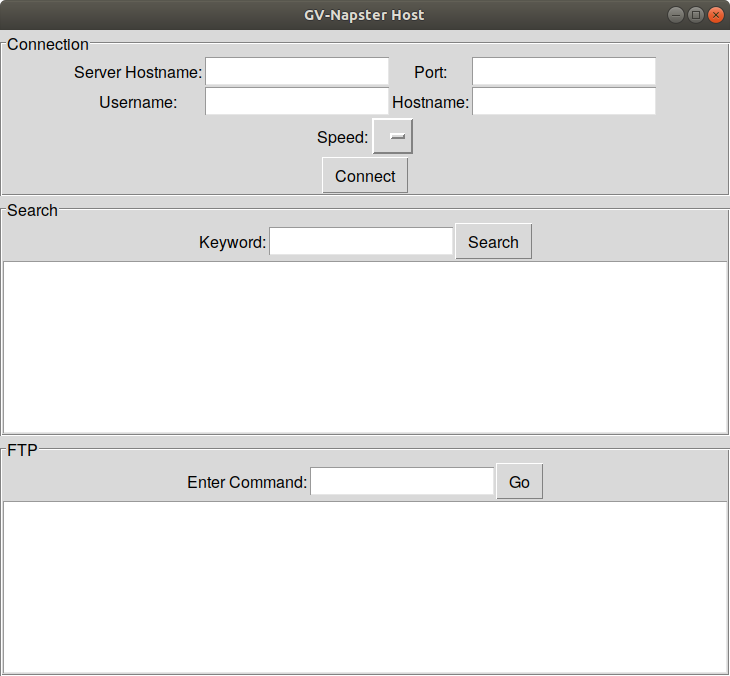
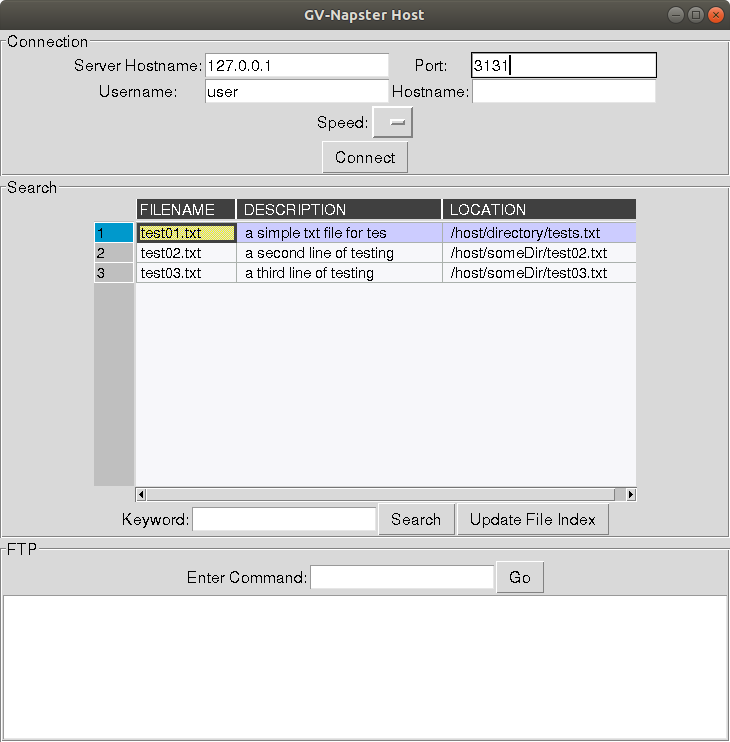
Update file sourcing and table code. Make things look cooler. Update UI image.

Changed region(s): [[0.0, 0.0, 1.0, 0.8077]]

diff --git a/Host/hostGUI.py b/Host/hostGUI.py
@@ -1,0 +1,187 @@
+import sys
+import os
+from tkinter import *
+from tkinter import messagebox
+import tkinter.font as tkFont
+from tkintertable import TableCanvas, TableModel
+import subprocess
+import runpy
+from threading import Thread
+sys.path.append('..')
+import hostFTPServer
+from HostClient import *
+
+
+# REQUIRE PYTHON 3
+def requireVersion():
+    if (sys.version_info[0] != 3):
+        print("This script requires Python version 3.x")
+        sys.exit(1)
+
+def runServer():
+    requireVersion()
+    '''
+    a few different methods to run the subprocess. not worth running it separately,
+    hence the basic function call.
+    '''
+    #runpy.run_module(mod_name = 'server') # this doesn't listen properly, and doesn't offer logging. below works for gnome terms
+    #os.system("gnome-terminal -x python server.py")
+    #subprocess.run(["python", "server.py"], )
+    hostFTPServer.main()
+
+
+class hostGUI:
+    def __init__(self):
+
+        '''
+        The host's FTP client instance
+        '''
+        self.client = HostClient()
+
+        '''
+        Assemble the GUI
+        '''
+
+        self.top = Tk()
+        self.top.title("GV-Napster Host")
+        #self.top.geometry("700x1200")
+
+        self.fontStyle = tkFont.Font(root=self.top, family="Helvetica", size=20)
+
+        self.font = tkFont.Font(family="Helvetica",size=12)
+
+        self.top.option_add("*Font", self.font)
+
+
+
+        self.connectionLabelFrame = LabelFrame(self.top, text = "Connection")
+        self.connectionLabelFrame.pack(fill="both", expand="yes")
+        self.searchLabelFrame = LabelFrame(self.top, text = "Search")
+        self.searchLabelFrame.pack(fill="both", expand="yes")
+        self.FTPLabelFrame = LabelFrame(self.top, text = "FTP")
+        self.FTPLabelFrame.pack(fill="both", expand="yes")
+
+        self.connectionInputs = Frame(self.connectionLabelFrame)
+
+
+        self.serverHostnameLabel = Label(self.connectionInputs, text="Server Hostname:")
+        self.serverHostnameLabel.grid(row=0, column=0)
+        self.serverHostnameText = Entry(self.connectionInputs)
+        self.serverHostnameText.grid(row=0, column=1)
+
+        self.usernameLabel = Label(self.connectionInputs, text="Username:")
+        self.usernameLabel.grid(row=1, column=0)
+        self.userNameText = Entry(self.connectionInputs)
+        self.userNameText.grid(row=1, column=1)
+
+        self.portLabel = Label(self.connectionInputs, text="Port:")
+        self.portLabel.grid(row=0, column=3)
+        self.portText = Entry(self.connectionInputs)
+        self.portText.grid(row=0, column=4)
+
+        self.hostnameLabel = Label(self.connectionInputs, text="Hostname:")
+        self.hostnameLabel.grid(row=1, column=3)
+        self.hostnameText = Entry(self.connectionInputs)
+        self.hostnameText.grid(row=1, column=4)
+
+        self.speedFrame = Frame(self.connectionLabelFrame)
+        self.speedLabel = Label(self.speedFrame, text="Speed:")
+        self.speedSelection = StringVar(self.top)
+        self.speedChoices = { 'Ethernet'}
+        self.speedMenu = OptionMenu(self.speedFrame, self.speedSelection, *self.speedChoices)
+
+        self.connectButton = Button(self.connectionLabelFrame, text="Connect", command=self.connect)
+
+        self.searchKeywordFrame = Frame(self.searchLabelFrame)
+        self.keywordLabel = Label(self.searchKeywordFrame, text="Keyword:")
+        self.keywordLabel.grid(row=0, column=0)
+        self.keywordText = Entry(self.searchKeywordFrame)
+        self.keywordText.grid(row=0, column=1)
+        self.searchButton = Button(self.searchKeywordFrame, text="Search", command=self.search)
+        self.searchButton.grid(row=0, column=2)
+        self.updateFileIndexButton = Button(self.searchKeywordFrame, text="Update File Index", command=self.updateFileIndex)
+        self.updateFileIndexButton.grid(row=0, column=3)
+
+
+        # working on a table, just a placeholder
+        self.searchFrame = Frame(self.searchLabelFrame)
+        self.searchTable = TableCanvas(self.searchFrame)
+        self.searchTable.importCSV("files.csv")
+        #self.searchTable = Text(self.searchLabelFrame, height=7)
+
+        self.enterCommandFrame = Frame(self.FTPLabelFrame)
+        self.enterCommandLabel = Label(self.enterCommandFrame, text="Enter Command:")
+        self.enterCommandLabel.grid(row=0, column=0)
+        self.enterCommandText = Entry(self.enterCommandFrame)
+        self.enterCommandText.grid(row=0, column=1)
+        self.enterCommandButton = Button(self.enterCommandFrame, text="Go", command=self.runFTPCommand)
+        self.enterCommandButton.grid(row=0, column=2)
+
+        # needs format specifics but will work
+        self.commandTextOutput = Text(self.FTPLabelFrame, height=7)
+
+        '''
+        pack all frames in proper order (top to bottom)
+        '''
+        self.connectionInputs.pack()
+        self.speedLabel.pack(side=LEFT)
+        self.speedMenu.pack(side=RIGHT)
+        self.speedFrame.pack()
+        self.connectButton.pack(side=BOTTOM)
+        self.searchFrame.pack()
+        self.searchTable.show()
+        self.searchKeywordFrame.pack()
+        #self.searchTable.pack()
+        self.enterCommandFrame.pack()
+        self.commandTextOutput.pack()
+
+    def connect(self):
+        serverHostname = self.serverHostnameText.get()
+        port = self.portText.get()
+        username = self.userNameText.get()
+        hostname = self.hostnameText.get()
+        #speed = self.speedMenu.get()
+        print("Connecting to " + serverHostname + ":" + port + " as " + username + " from " + hostname + " at speed <later>...")
+        connectionResult = self.client.connect(serverHostname, port, username)
+        if (connectionResult == 1):
+            messagebox.showerror(title="Server Connection", message="Connection Refused")
+            return
+        if (connectionResult == 2):
+            messagebox.showerror(title="Server Authentication", message="Authentication Failed")
+        else:
+            print("Connected...")
+
+    def search(self):
+        print("SEARCH FUNCTION CODE STANDIN")
+
+    def runFTPCommand(self):
+        print("Run FTP Command stand-in")
+
+    def updateFileIndex(self):
+        print("Updating file index...")
+        self.client.fetchFileIndex()
+        self.searchTable.importCSV("files.csv")
+        self.searchTable.redraw()
+        print("File index updated...")
+
+
+
+
+def main():
+    gui = hostGUI()
+    gui.top.mainloop()
+
+if __name__ == '__main__':
+    try:
+        '''
+        Start an FTP server on this machine
+        '''
+        # ONLY COMMENTED OUT BECAUSE RUNNING THIS ON THE SAME MACHINE AS THE CENTRAL SERVER IS ASS
+        Thread(target = runServer).start()
+
+        '''
+        Start the host GUI (and therefore client) on this machine
+        '''
+        Thread(target = main).start()
+    except:
+        exit(0)

diff --git a/Host/hostFTPServer.py b/Host/hostFTPServer.py
@@ -1,0 +1,129 @@
+from pyftpdlib.authorizers import DummyAuthorizer
+from pyftpdlib.handlers import FTPHandler
+from pyftpdlib.servers import FTPServer
+from threading import Thread
+import csv
+import sys
+
+# REQUIRE PYTHON 3
+def requireVersion():
+    if (sys.version_info[0] != 3):
+        print("This script requires Python version 3.x")
+        sys.exit(1)
+
+
+'''
+HOSTS ACCESS EACH OTHER, BUT ONLY FOR DOWNLOADS, THIS SERVER IS ONLY THE MIDDLEMAN FOR P2P FILESHARING. IE, THIS SERVER ONLY MAINTAINS A DB OF FILENAMES AND DESCRIPTIONS, BUT
+DOES NOT DO ANY MORE THAN TELL THE HOST WHAT FILES ARE AND WHERE TO FIND THEM (ON WHICH HOST)
+'''
+
+# The port the FTP server will listen on.
+# This must be greater than 1023 unless you run this script as root.
+FTP_PORT = 2121
+
+'''
+NOT WORRIED ABOUT AUTHENTICATING THIS SERVER, DOESN'T SEEM MAJOR IN THE SCOPE OF THE PROJECT.
+IT'S JUST A CENTRAL "WHO HAS WHAT" SO. 
+'''
+
+# The name of the FTP user that can log in.
+FTP_USER = ""
+
+# The FTP user's password.
+FTP_PASSWORD = ""
+
+# The directory the FTP user will have full read/write access to.
+# This directory holds the file that operates as the filename directory/database, ie
+# what files are, and where they are. 
+FTP_DIRECTORY = "."
+
+
+'''
+CONNECTION DATA:
+WE CAN KEEP A PRE-BUILT LIST OF FILES/DESCRIPTIONS, BUT THAT REQUIRES LOGGING IN THE
+IMPORTED DATASET WHICH HOSTS ARE LOGGED IN/CAN BE DOWNLOADED FROM
+'''
+
+'''
+TO DO: FILE CONTAINING FILENAMES AND DESCRIPTIONS
+'''
+
+# Load the .csv file containing file names and descriptions
+files = {}
+i = 0
+with open('files.csv') as csvfile:
+    readCSV = csv.reader(csvfile, delimiter=',')
+    for row in readCSV:
+        print(row) # print the array at that row
+        #print(row[0]) # print filename of that row
+        #print(row[0],row[1],row[2],) # print filename, description, and path of row
+        files[i] = row
+        i = i + 1
+
+print("Current Number of Files: " + str(i))
+#print(files)
+#print(readCSV)
+
+'''
+TO DO: A TABLE MAPPING FILENAMES TO HOSTS
+'''
+
+
+def main():
+
+    requireVersion()
+
+    authorizer = DummyAuthorizer()
+
+    # Define a new user having full r/w permissions.
+    authorizer.add_user(FTP_USER, FTP_PASSWORD, FTP_DIRECTORY, perm='r')
+
+    handler = FTPHandler
+    handler.authorizer = authorizer
+
+    # Define a customized banner (string returned when client connects)
+    handler.banner = "pyftpdlib based ftpd ready."
+
+    # Optionally specify range of ports to use for passive connections.
+    #handler.passive_ports = range(60000, 65535)
+
+    address = ('', FTP_PORT)
+    server = FTPServer(address, handler)
+
+    server.max_cons = 256
+    server.max_cons_per_ip = 5
+
+    # ASCII art by some guy named 'das'
+    print('''
+
+457 PURPLE TEAM GV-NAPSTER SERVER
+---------------------------------
+ ___________________________    -
+|[]                        []|  -
+|[]                        []|  -
+|                            |  -
+|            . .             |  -
+|          `    _`           |  -
+|         `  ()|_|`          |  -
+|         `       `          |  -
+|          ` . . `           |  -
+|      ________________      |  -
+|     |          ____  |     |  -
+|     |         |    | |     |  -
+|     |         |    | |     |  -
+|     |         |    | |     |  -
+|()   |         |_  _| |   ()|  -
+|)    |           --   |    (|  -
+|_____|[]______________|\___/   -
+                                -
+---------------------------------
+
+Logging users...
+
+    ''')
+
+    server.serve_forever()
+
+
+if __name__ == '__main__':
+    main()

diff --git a/Host/HostClient.py b/Host/HostClient.py
@@ -1,0 +1,33 @@
+from ftplib import FTP
+import sys
+
+# REQUIRE PYTHON 3
+def requireVersion():
+    if (sys.version_info[0] != 3):
+        print("This script requires Python version 3.x")
+        sys.exit(1)
+
+class HostClient:
+    def __init__(self):
+        self.ftp = FTP('')
+
+    def connect(self, URI, PORT, USERNAME):
+        try:
+            self.ftp.connect(URI, int(PORT))
+        except:
+            return(1) # connection refused
+
+        try:
+            self.ftp.login(user=USERNAME, passwd="")
+        except:
+            return(2) # auth failure
+
+        return(0) # all good, connection established
+
+
+    def fetchFileIndex(self):
+        filename = "files.csv"
+        localfile = open(filename, 'wb')
+        self.ftp.retrbinary('RETR ' + filename, localfile.write, 1024)
+        localfile.close()
+
